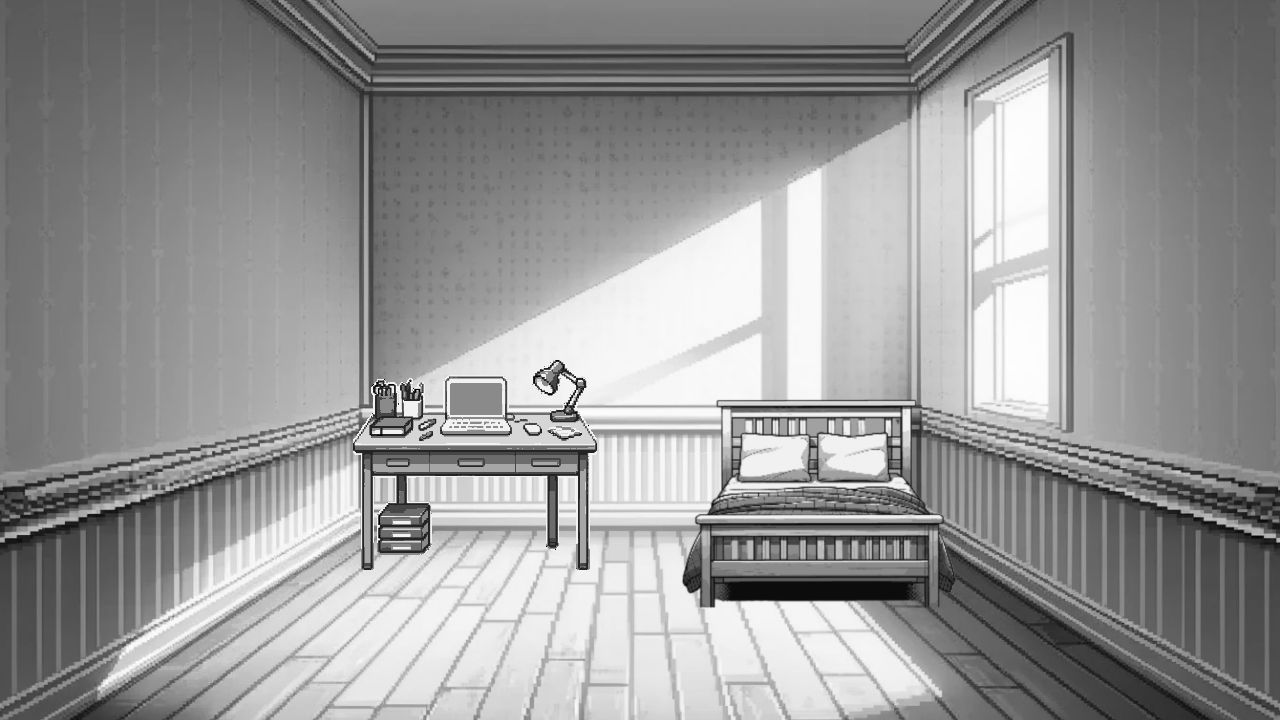
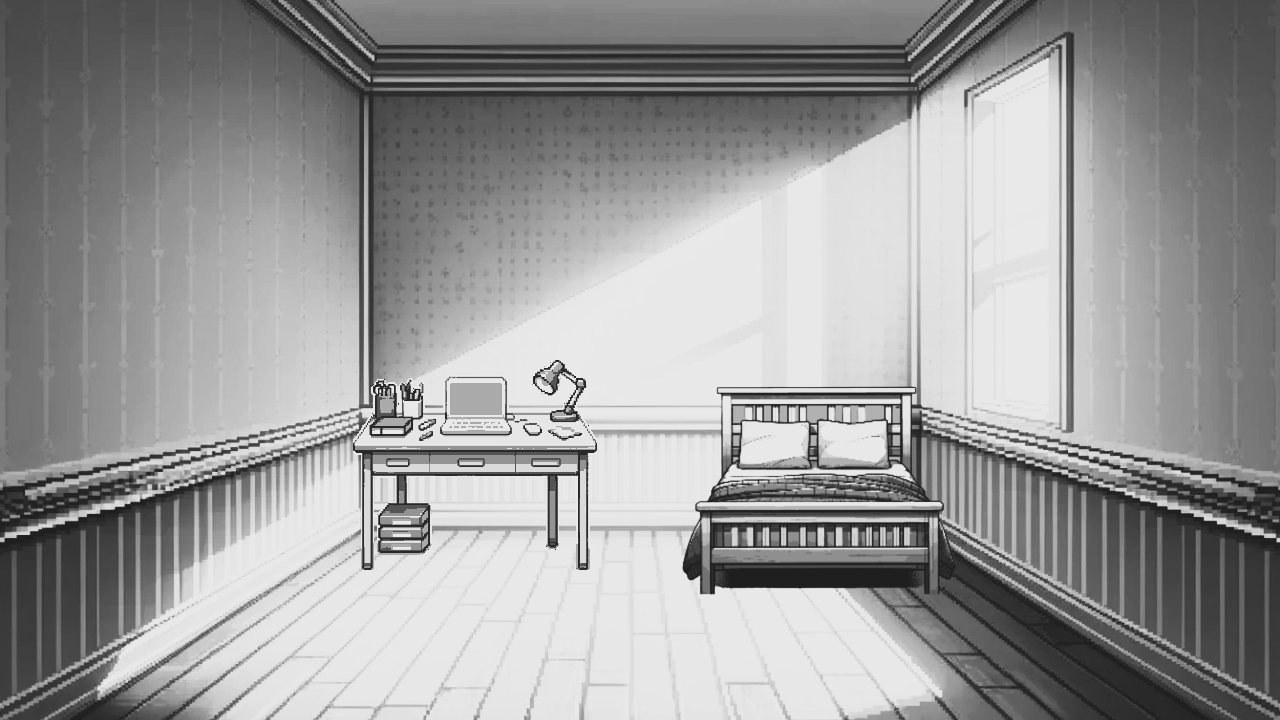
집 색 이미지 애셋 변경

diff --git a/homeNight.js b/homeNight.js
@@ -1,6 +1,6 @@
 class HomeNight {
     constructor() {
-      this.image = HomeNight.image;
+      this.images = HomeNight.images;
       this.book = HomeNight.book;
       this.texts = [
         '월요일, 오늘은 가게와 낙서를 발견했다.',
@@ -33,25 +33,19 @@ class HomeNight {
   
     static preload() {
       HomeNight.book = loadImage('assets/images/objects/homeNightBook.png');
-      if (day == 1) {
-        HomeNight.image = loadImage('assets/images/backgrounds/homeNightMono.png');
-      } else {
-        HomeNight.image = loadImage('assets/images/backgrounds/homeNightColor.png');
-      }
+      HomeNight.images = [
+        loadImage('assets/images/backgrounds/homeNightFullMono.png'),
+        loadImage('assets/images/backgrounds/homeNightFullColor2.png'),
+        loadImage('assets/images/backgrounds/homeNightFullColor3.png'),
+        loadImage('assets/images/backgrounds/homeNightFullColor4.png'),
+        loadImage('assets/images/backgrounds/homeNightFullColor.png')
+      ]
     }
   
     display() {
-      if (day == 1) {
-        image(this.image, 0, 0, width, height);
-      } else {
-        let tintValue = day * 51; // day 값에 따라 0에서 255로 매핑
-        tint(tintValue, tintValue, tintValue, 255);
-        image(this.image, 0, 0, width, height);
-      }
-  
-      noTint(); // 다음 이미지에 영향을 주지 않도록 tint 해제
-  
+      image(this.images[day-1], 0, 0, width, height);
       fill(0);
+      rectMode(CORNER);
       rect(0, height - 120, 1280, 120);
       rect(0, 0, 1280, 120);
   

diff --git a/homeMorning.js b/homeMorning.js
@@ -1,7 +1,7 @@
 class HomeMorning {
     constructor() {
-        this.image = HomeMorning.image;
-        this.backPackImages = HomeMorning.backPackImages
+        this.images = HomeMorning.images;
+        this.backPackImages = HomeMorning.backPackImages;
         this.texts = [
             '오늘은 월요일이다. 너무 힘들군.',
             '오늘은 화요일이다. 학교에 가자.',
@@ -22,7 +22,13 @@ class HomeMorning {
     }
   
     static preload() {
-      HomeMorning.image = loadImage('assets/images/backgrounds/homeMorningFullMono.png');
+      HomeMorning.images = [
+        loadImage('assets/images/backgrounds/homeMorningFullMono.png'),
+        loadImage('assets/images/backgrounds/homeMorningFullColor2.png'),
+        loadImage('assets/images/backgrounds/homeMorningFullColor3.png'),
+        loadImage('assets/images/backgrounds/homeMorningFullColor4.png'),
+        loadImage('assets/images/backgrounds/homeMorningFullColor.png')
+      ]
       HomeMorning.backPackImages = [
         loadImage('assets/images/objects/backPackMono.png'),
         loadImage('assets/images/objects/backPackColor2.png'),
@@ -34,7 +40,7 @@ class HomeMorning {
   
     display() {
       noStroke();
-      image(this.image, 0, 0, width, height);
+      image(this.images[day - 1], 0, 0, width, height);
       fill(0);
       rectMode(CORNER);
       rect(0, height - 120, 1280, 120);

diff --git a/sketch.js b/sketch.js
@@ -147,7 +147,7 @@ function keyPressed() {
   } else if (key === '8') {
     changePage(endingScene, 'Loading...');
   } else if (key === '9') {
-    day =+ 5
+    day += 1;
   }
 
   //리셋
